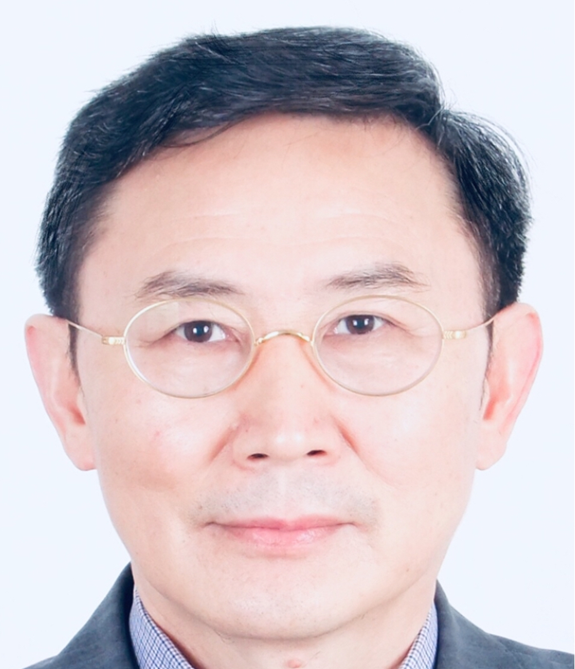
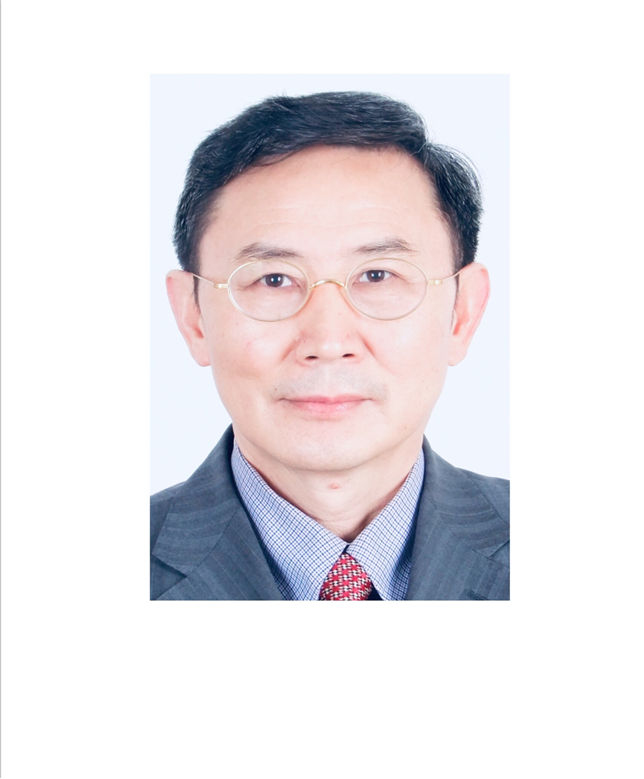
Add open position placeholders to Medicine editorial board

diff --git a/lib/data/editors.ts b/lib/data/editors.ts
@@ -369,6 +369,38 @@ His broad research portfolio spans evidence-based medicine (EBM), health service
         link: "https://www.nature.com/articles/tp201171"
       }
     ]
+  },
+  {
+    slug: "open-position-assoc-med-1",
+    name: "Position open",
+    role: "Associate Editor",
+    affiliation: "Under formation",
+    specialization: "Currently appointing",
+    journalSlug: "medicine"
+  },
+  {
+    slug: "open-position-assoc-med-2",
+    name: "Position open",
+    role: "Associate Editor",
+    affiliation: "Under formation",
+    specialization: "Currently appointing",
+    journalSlug: "medicine"
+  },
+  {
+    slug: "open-position-board-med-1",
+    name: "Position open",
+    role: "Editorial Board Member",
+    affiliation: "Under formation",
+    specialization: "Currently appointing",
+    journalSlug: "medicine"
+  },
+  {
+    slug: "open-position-board-med-2",
+    name: "Position open",
+    role: "Editorial Board Member",
+    affiliation: "Under formation",
+    specialization: "Currently appointing",
+    journalSlug: "medicine"
   }
 ]
 
